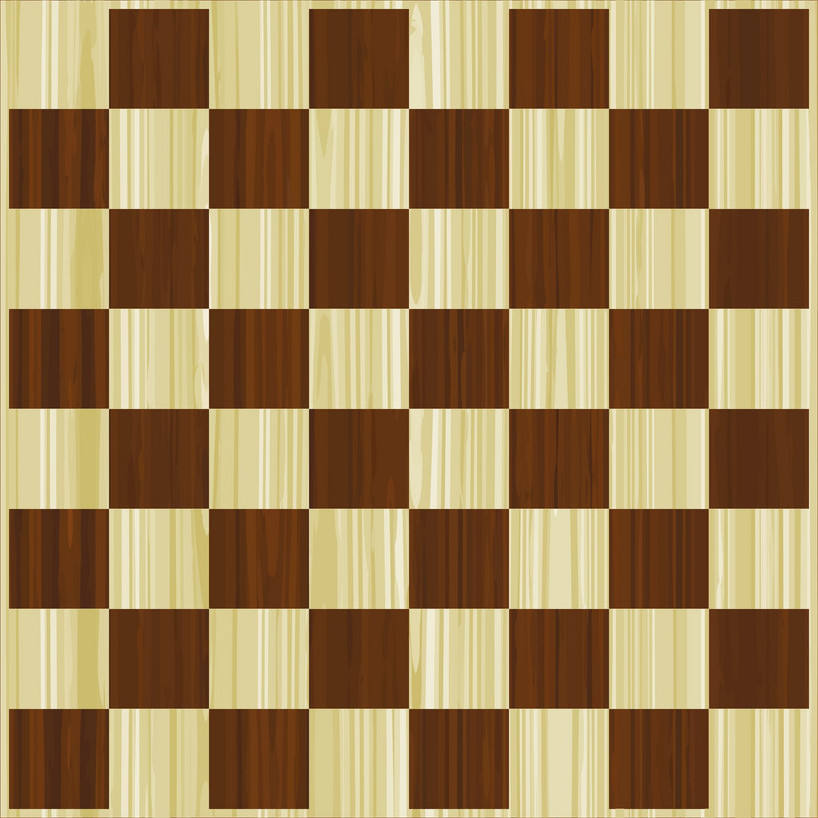
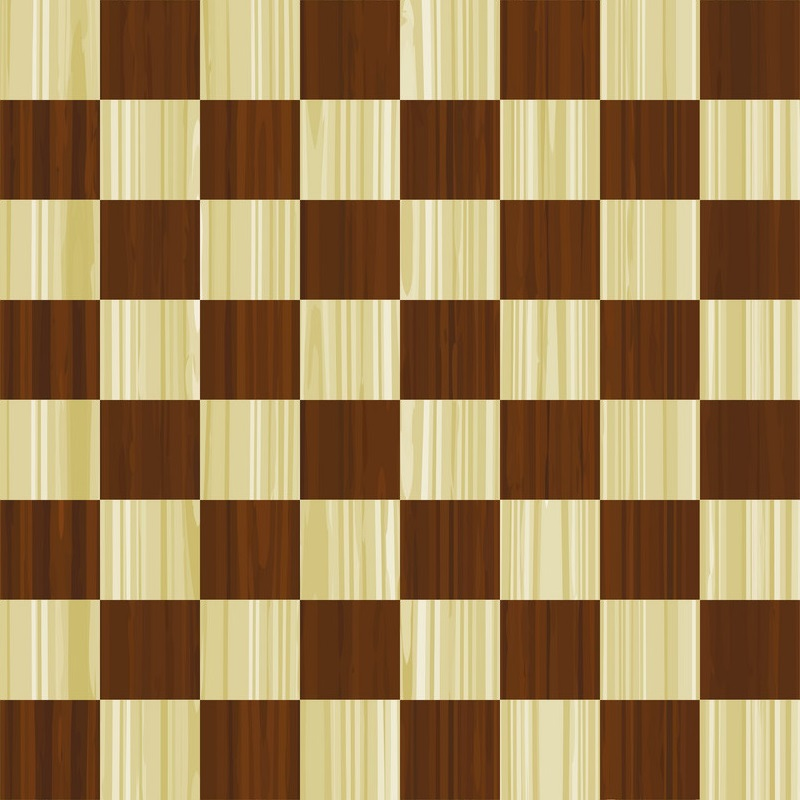
Updating 'Checkers'

Changed region(s): [[0.0, 0.0, 1.0, 1.0]]

diff --git a/Java Projects/Checkers/Piece.java b/Java Projects/Checkers/Piece.java
@@ -13,6 +13,8 @@ import javax.swing.JFrame;
 import javax.swing.JPanel;
 
 public class Piece {
+    private static int size = 60;
+
     // This stores the positions of the pieces on the board
     private static int[][] board = new int[][]{
         {0, 2, 0, 2, 0, 2, 0, 2},
@@ -26,9 +28,12 @@ public class Piece {
     };
 
     // Checker pieces...
-    private static BufferedImage redChecker = Main.loadImage("Red_Checker.png");
-    private static BufferedImage blackChecker = Main.loadImage("Black_Checker.png");
+    private static BufferedImage[] pieceImages = new BufferedImage[]{
+        Main.loadImage("Red_Checker.png"),
+        Main.loadImage("Black_Checker.png")
+    };
 
+    // Creates the pieces for the game
     public static Piece[] generatePieces() {
         Piece[] pieces = new Piece[24];
 
@@ -38,7 +43,7 @@ public class Piece {
                 int piece = board[y][x];
 
                 if (piece == 1 || piece == 2) {
-                    pieces[index++] = new Piece(x * 40, y * 40, piece);
+                    pieces[index++] = new Piece(x * 75 + 7, y * 75 + 7, piece - 1);
                 }
             }
         }
@@ -46,9 +51,15 @@ public class Piece {
         return pieces;
     }
 
-    private int x;
-    private int y;
-    private int team;
+    public static void drawPieces(Piece[] pieces, Graphics2D g2d) {
+        for (Piece piece : pieces) {
+            g2d.drawImage(pieceImages[piece.team], piece.x, piece.y, size, size, null);
+        }
+    }
+
+    public int x;
+    public int y;
+    public final int team;
 
     public Piece(int x, int y, int team) {
         this.x = x;

diff --git a/Java Projects/Checkers/Main.java b/Java Projects/Checkers/Main.java
@@ -19,8 +19,8 @@ import javax.swing.JFrame;
 import javax.swing.JPanel;
 
 public class Main {
-    static JFrame frame;
-    static DrawPanel canvas;
+    private static JFrame frame;
+    private static DrawPanel canvas;
 
     // The width and height of the canvas
     private int width = 600;
@@ -30,7 +30,7 @@ public class Main {
 
     // Image files...
     private BufferedImage checkerBoard = loadImage("Checker_Board.jpg");
-    
+
     public static void main(String[] args) throws IOException {
         new Main().init();
     }
@@ -94,7 +94,12 @@ public class Main {
         @Override
         // Code to be drawn...
         public void paintComponent(Graphics g) {
+            Graphics2D g2d = (Graphics2D)g;
+
             super.paintComponent(g);
+
+            g2d.drawImage(checkerBoard, 0, 0, width, height, null);
+            Piece.drawPieces(checkerPieces, g2d);
         }
     }
 }
